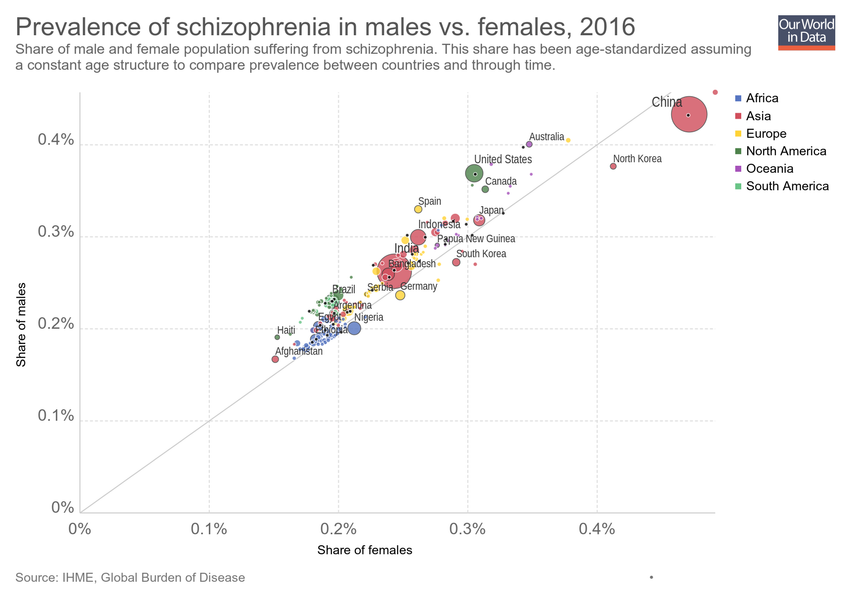
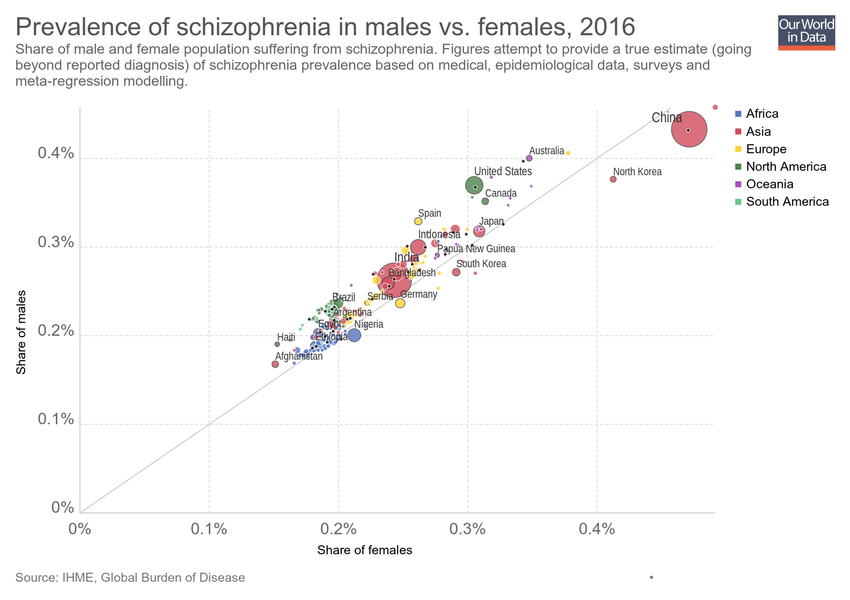
Updating chart prevalence-of-schizophrenia-in-males-vs-females

diff --git a/grapher/number-with-schizophrenia.html b/grapher/number-with-schizophrenia.html
@@ -1,4 +1,4 @@
-<!doctype html><html><head><meta name="viewport" content="width=device-width, initial-scale=1" /><title>Number of people with schizophrenia - Our World in Data</title><meta name="description" content="Total number of people with schizophrenia, differentiated by sex. This is measured across all ages." /><link rel="canonical" href="https://ourworldindata.org/grapher/number-with-schizophrenia" /><meta property="fb:app_id" content="1149943818390250" /><meta property="og:url" content="https://ourworldindata.org/grapher/number-with-schizophrenia" /><meta property="og:title" content="Number of people with schizophrenia" /><meta property="og:description" content="Total number of people with schizophrenia, differentiated by sex. This is measured across all ages." /><meta property="og:image" content="https://ourworldindata.org/grapher/exports/number-with-schizophrenia.png?v=3" /><meta property="og:image:width" content="850" /><meta property="og:image:height" content="600" /><meta property="og:site_name" content="Our World in Data" /><meta name="twitter:card" content="summary_large_image" /><meta name="twitter:site" content="@OurWorldInData" /><meta name="twitter:creator" content="@OurWorldInData" /><meta name="twitter:title" content="Number of people with schizophrenia" /><meta name="twitter:description" content="Total number of people with schizophrenia, differentiated by sex. This is measured across all ages." /><meta name="twitter:image" content="https://ourworldindata.org/grapher/exports/number-with-schizophrenia.png?v=3" /><style>
+<!doctype html><html><head><meta name="viewport" content="width=device-width, initial-scale=1" /><title>Number of people with schizophrenia - Our World in Data</title><meta name="description" content="Total number of people with schizophrenia, differentiated by sex. This is measured across all ages. Figures attempt to provide a true estimate (going beyond reported diagnosis) of the number of people with schizophrenia based on medical, epidemiological data, surveys and meta-regression modelling." /><link rel="canonical" href="https://ourworldindata.org/grapher/number-with-schizophrenia" /><meta property="fb:app_id" content="1149943818390250" /><meta property="og:url" content="https://ourworldindata.org/grapher/number-with-schizophrenia" /><meta property="og:title" content="Number of people with schizophrenia" /><meta property="og:description" content="Total number of people with schizophrenia, differentiated by sex. This is measured across all ages. Figures attempt to provide a true estimate (going beyond reported diagnosis) of the number of people with schizophrenia based on medical, epidemiological data, surveys and meta-regression modelling." /><meta property="og:image" content="https://ourworldindata.org/grapher/exports/number-with-schizophrenia.png?v=4" /><meta property="og:image:width" content="850" /><meta property="og:image:height" content="600" /><meta property="og:site_name" content="Our World in Data" /><meta name="twitter:card" content="summary_large_image" /><meta name="twitter:site" content="@OurWorldInData" /><meta name="twitter:creator" content="@OurWorldInData" /><meta name="twitter:title" content="Number of people with schizophrenia" /><meta name="twitter:description" content="Total number of people with schizophrenia, differentiated by sex. This is measured across all ages. Figures attempt to provide a true estimate (going beyond reported diagnosis) of the number of people with schizophrenia based on medical, epidemiological data, surveys and meta-regression modelling." /><meta name="twitter:image" content="https://ourworldindata.org/grapher/exports/number-with-schizophrenia.png?v=4" /><style>
         html, body {
             height: 100%;
             margin: 0;
@@ -20,8 +20,8 @@
         }
     </style><noscript><style>
                     figure { display: none !important; }
-                </style></noscript><link rel="stylesheet" href="https://ourworldindata.org/grapher/assets/commons.bundle.ac09ff8f098f0c7be836.css" /><link rel="preload" href="/grapher/data/variables/85280+85281.json?v=3" as="fetch" crossorigin /></head><body class="singleChart"><figure data-grapher-src="/grapher/number-with-schizophrenia"></figure><noscript id="fallback"><img src="/grapher/exports/number-with-schizophrenia.svg" /><p>Interactive visualization requires JavaScript</p></noscript><script src="https://cdn.polyfill.io/v2/polyfill.min.js?features=es6,fetch"></script><script src="https://ourworldindata.org/grapher/assets/commons.bundle.ac09ff8f098f0c7be836.js"></script><script src="https://ourworldindata.org/grapher/assets/charts.bundle.dcf65b68eddaba4c6a58.js"></script><script>
-        var jsonConfig = {"id":2192,"map":{"projection":"World","colorSchemeLabels":[],"colorSchemeValues":[],"defaultProjection":"World","colorSchemeMinValue":0,"customNumericColors":[],"customCategoryColors":{},"customCategoryLabels":{},"customHiddenCategories":{}},"tab":"chart","slug":"number-with-schizophrenia","type":"StackedArea","title":"Number of people with schizophrenia","xAxis":{"scaleType":"linear"},"yAxis":{"min":0,"scaleType":"linear"},"version":3,"subtitle":"Total number of people with schizophrenia, differentiated by sex. This is measured across all ages.","hasMapTab":false,"stackMode":"absolute","dimensions":[{"display":{"name":"Males","unit":"number of people"},"property":"y","variableId":85280},{"display":{"name":"Females","unit":"number of people"},"property":"y","variableId":85281}],"sourceDesc":"IHME, Global Burden of Disease","hasChartTab":true,"isPublished":true,"selectedData":[{"color":"#9ecc8a","index":1,"entityId":355},{"color":"#3360a9","index":0,"entityId":355}],"addCountryMode":"change-country"};
+                </style></noscript><link rel="stylesheet" href="https://ourworldindata.org/grapher/assets/commons.bundle.ac09ff8f098f0c7be836.css" /><link rel="preload" href="/grapher/data/variables/85280+85281.json?v=4" as="fetch" crossorigin /></head><body class="singleChart"><figure data-grapher-src="/grapher/number-with-schizophrenia"></figure><noscript id="fallback"><img src="/grapher/exports/number-with-schizophrenia.svg" /><p>Interactive visualization requires JavaScript</p></noscript><script src="https://cdn.polyfill.io/v2/polyfill.min.js?features=es6,fetch"></script><script src="https://ourworldindata.org/grapher/assets/commons.bundle.ac09ff8f098f0c7be836.js"></script><script src="https://ourworldindata.org/grapher/assets/charts.bundle.dcf65b68eddaba4c6a58.js"></script><script>
+        var jsonConfig = {"id":2192,"map":{"projection":"World","colorSchemeLabels":[],"colorSchemeValues":[],"colorSchemeMinValue":0,"customNumericColors":[],"customCategoryColors":{},"customCategoryLabels":{},"customHiddenCategories":{}},"tab":"chart","slug":"number-with-schizophrenia","type":"StackedArea","title":"Number of people with schizophrenia","xAxis":{"scaleType":"linear"},"yAxis":{"min":0,"scaleType":"linear"},"version":4,"subtitle":"Total number of people with schizophrenia, differentiated by sex. This is measured across all ages. Figures attempt to provide a true estimate (going beyond reported diagnosis) of the number of people with schizophrenia based on medical, epidemiological data, surveys and meta-regression modelling.","hasMapTab":false,"stackMode":"absolute","dimensions":[{"display":{"name":"Males","unit":"number of people"},"property":"y","variableId":85280},{"display":{"name":"Females","unit":"number of people"},"property":"y","variableId":85281}],"sourceDesc":"IHME, Global Burden of Disease","hasChartTab":true,"isPublished":true,"selectedData":[{"color":"#9ecc8a","index":1,"entityId":355},{"color":"#3360a9","index":0,"entityId":355}],"addCountryMode":"change-country"};
         var figure = document.getElementsByTagName("figure")[0];
         try {
             window.App = {};
